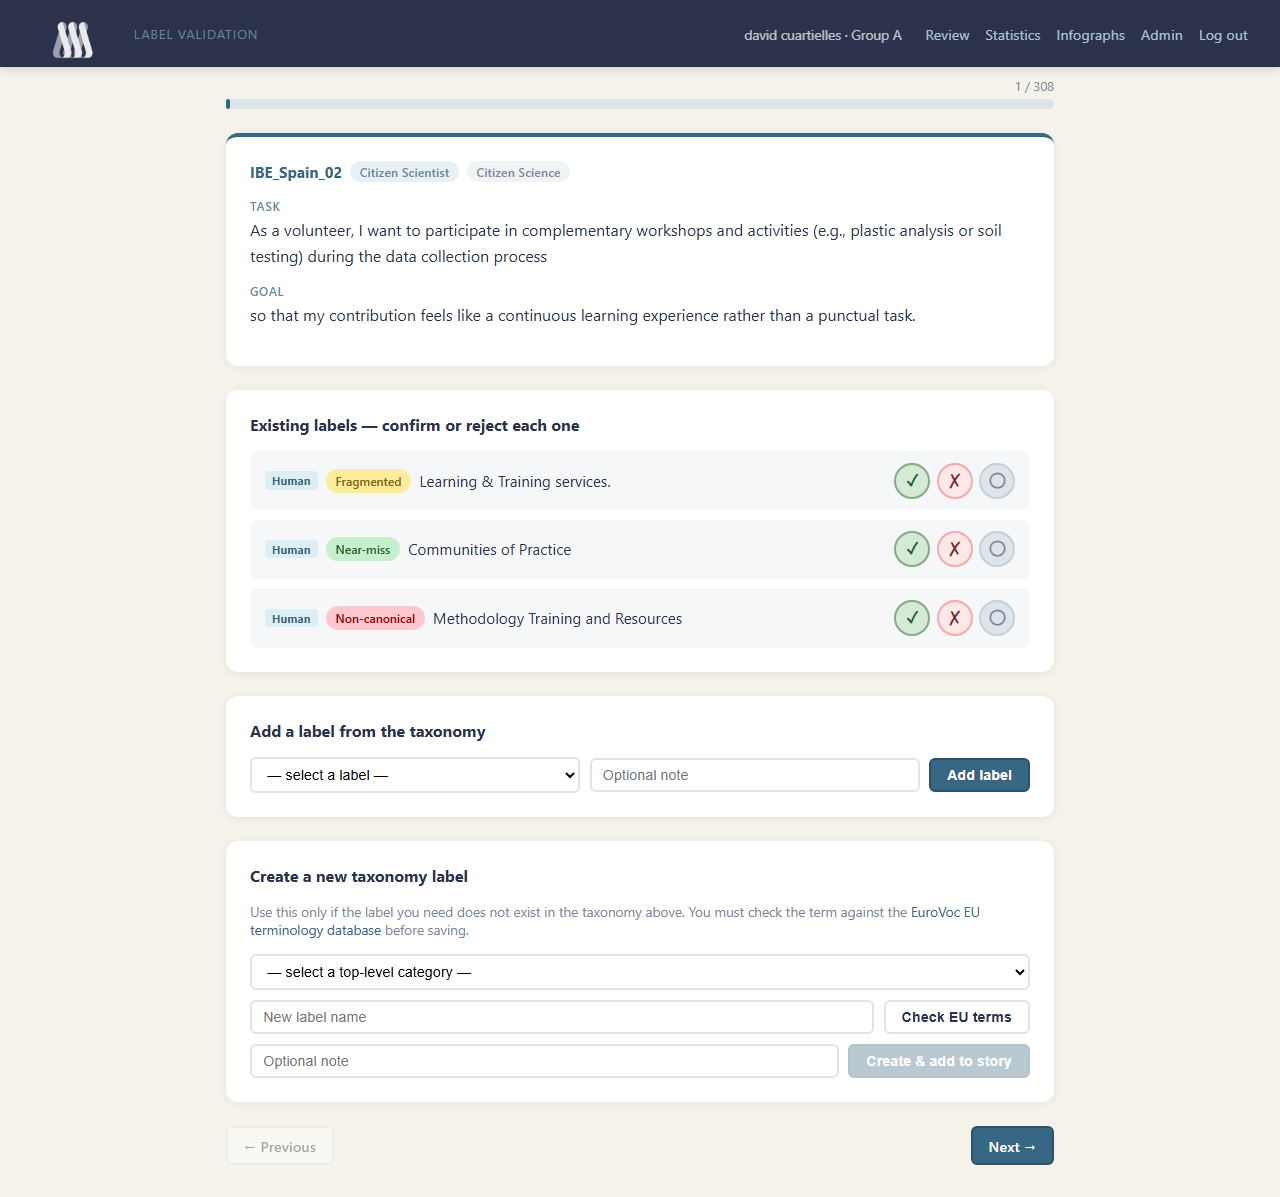
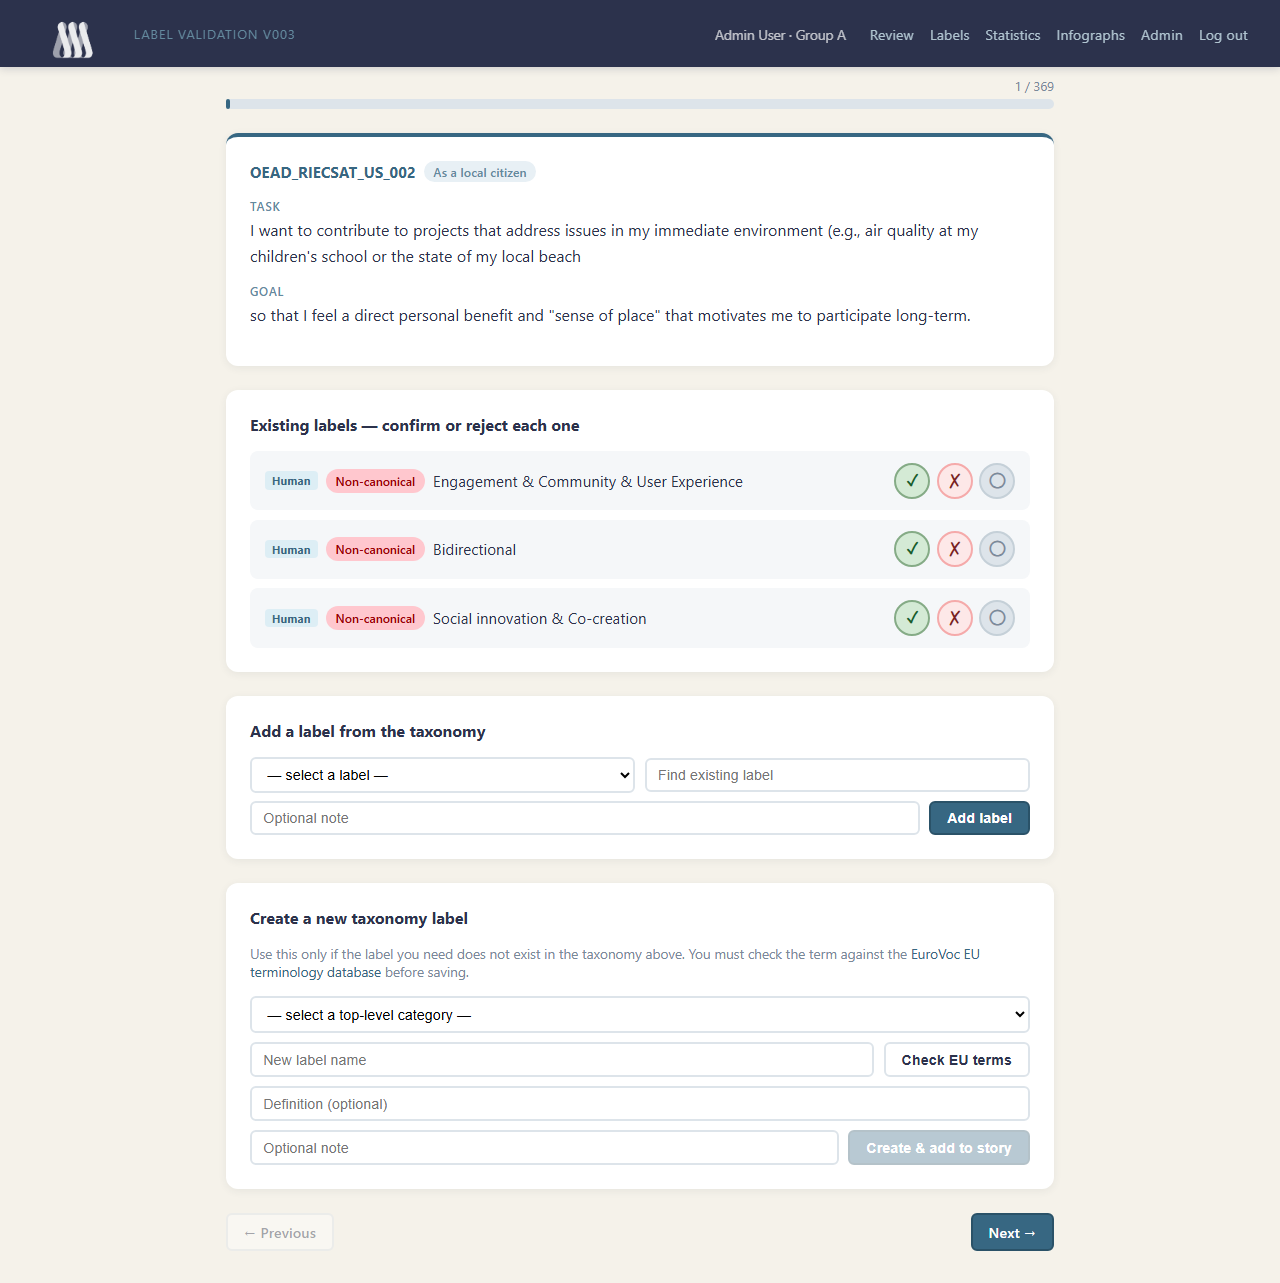
v004: update screenshots and README for Labels tab
- Add 07-labels.png screenshot
- Update screenshot script: add Labels page capture, replace names and emails with fictional equivalents, use fakemail.com domain
- Document Labels tab in README

diff --git a/scripts/take_screenshots.py b/scripts/take_screenshots.py
@@ -3,10 +3,11 @@ Automated screenshot capture for the README.
 Requires: pip install playwright && python -m playwright install chromium
 Run while the app is live on http://localhost:8000
 
-Emails visible on any page are replaced with fakeEmail.com addresses before
-the screenshot is taken (via JS text-node injection).
+Emails and real names visible on any page are replaced with fictional
+equivalents before the screenshot is taken (via JS text-node injection).
 """
 import asyncio
+import json
 import sys
 from datetime import datetime
 from pathlib import Path
@@ -22,43 +23,62 @@ from app.models import Session as ReviewSession, User
 OUT = Path("docs/screenshots")
 BASE = "http://localhost:8000"
 
+FAKE_NAMES = [
+    "Alice Müller",
+    "Bob Eriksson",
+    "Carol Dupont",
+    "David Rossi",
+    "Eva Kowalski",
+    "Frank Andersen",
+    "Grace Nakamura",
+    "Hugo Ferreira",
+]
 
-# JS that replaces every email address in the live DOM with a fake one.
-# The first email found becomes admin@fakeEmail.com; the rest become user1@…, user2@…
+# Replaces every occurrence of the real strings with their fake counterparts.
+# replacements = [[real, fake], ...]  — applied in order, longest-first.
 ANONYMISE_JS = """
-(adminEmail) => {
-    const re = /[a-zA-Z0-9._%+\\-]+@[a-zA-Z0-9.\\-]+\\.[a-zA-Z]{2,}/g;
-    const map = {};
-    let n = 1;
+(replacements) => {
+    replacements.sort((a, b) => b[0].length - a[0].length);
     const walk = document.createTreeWalker(document.body, NodeFilter.SHOW_TEXT);
     let node;
     while ((node = walk.nextNode())) {
-        if (!re.test(node.textContent)) { re.lastIndex = 0; continue; }
-        re.lastIndex = 0;
-        node.textContent = node.textContent.replace(re, m => {
-            if (!map[m]) {
-                map[m] = (m === adminEmail) ? 'admin@fakeEmail.com'
-                                            : `user${n++}@fakeEmail.com`;
-            }
-            return map[m];
-        });
+        let t = node.textContent;
+        for (const [real, fake] of replacements) {
+            if (t.includes(real)) t = t.split(real).join(fake);
+        }
+        node.textContent = t;
     }
 }
 """
 
 
-async def get_admin(db):
-    result = await db.execute(select(User).where(User.is_admin == True))
-    user = result.scalars().first()
-    if not user:
-        result = await db.execute(select(User))
-        user = result.scalars().first()
-    if not user:
+async def build_replacements(db) -> tuple[list[list[str]], int, str]:
+    """Return (replacements, admin_id, admin_email)."""
+    result = await db.execute(select(User).order_by(User.id))
+    users = result.scalars().all()
+
+    admin = next((u for u in users if u.is_admin), users[0] if users else None)
+    if not admin:
         raise RuntimeError("No users in DB. Log in at least once first.")
-    return user
+
+    replacements = []
+    fake_idx = 0
+    for u in users:
+        is_admin = u.id == admin.id
+        fake_name = "Admin User" if is_admin else FAKE_NAMES[fake_idx % len(FAKE_NAMES)]
+        if not is_admin:
+            fake_idx += 1
+        fake_email = "admin@fakemail.com" if is_admin else f"user{fake_idx}@fakemail.com"
+
+        if u.name:
+            replacements.append([u.name, fake_name])
+        if u.email:
+            replacements.append([u.email, fake_email])
+
+    return replacements, admin.id, admin.email
 
 
-async def ensure_active_session(db, admin_id: int) -> int:
+async def ensure_active_session(db, admin_id: int):
     result = await db.execute(
         select(ReviewSession).where(ReviewSession.ended_at.is_(None))
     )
@@ -68,7 +88,7 @@ async def ensure_active_session(db, admin_id: int) -> int:
         db.add(session)
         await db.commit()
         await db.refresh(session)
-        return session.id, True   # (id, created_by_us)
+        return session.id, True
     return session.id, False
 
 
@@ -84,18 +104,17 @@ async def main():
     await init_db()
 
     async with SessionLocal() as db:
-        admin = await get_admin(db)
-        admin_id = admin.id
-        admin_email = admin.email
+        replacements, admin_id, admin_email = await build_replacements(db)
         session_id, we_created = await ensure_active_session(db, admin_id)
 
-    print(f"Admin: {admin_email} -> admin@fakeEmail.com")
+    print(f"Admin: {admin_email} -> admin@fakemail.com")
     print(f"Session {session_id} ({'created' if we_created else 'reused'})")
+    repl_json = json.dumps(replacements)
 
     async with async_playwright() as p:
         browser = await p.chromium.launch()
 
-        # ── 1. Login page (unauthenticated context) ──────────────────────────
+        # ── 1. Login page (unauthenticated) ──────────────────────────────────
         ctx_anon = await browser.new_context(viewport={"width": 1280, "height": 800})
         page_anon = await ctx_anon.new_page()
         await page_anon.goto(f"{BASE}/login")
@@ -113,12 +132,15 @@ async def main():
             await browser.close()
             return
 
-        # ── 2. Waiting page (end session temporarily) ─────────────────────────
+        async def anon(pg):
+            await pg.evaluate(f"({ANONYMISE_JS})({repl_json})")
+
+        # ── 2. Waiting page ───────────────────────────────────────────────────
         async with SessionLocal() as db:
             await end_session(db, session_id)
         await page.goto(f"{BASE}/review")
         await page.wait_for_load_state("networkidle")
-        await page.evaluate(ANONYMISE_JS, admin_email)
+        await anon(page)
         await page.screenshot(path=str(OUT / "02-waiting.png"), full_page=True)
         print("  OK 02-waiting.png")
 
@@ -133,34 +155,40 @@ async def main():
         # ── 3. Review page ────────────────────────────────────────────────────
         await page.goto(f"{BASE}/review")
         await page.wait_for_load_state("networkidle")
-        await page.evaluate(ANONYMISE_JS, admin_email)
+        await anon(page)
         await page.screenshot(path=str(OUT / "03-review.png"), full_page=True)
         print("  OK 03-review.png")
 
         # ── 4. Statistics page ────────────────────────────────────────────────
         await page.goto(f"{BASE}/stats")
         await page.wait_for_load_state("networkidle")
-        await page.evaluate(ANONYMISE_JS, admin_email)
+        await anon(page)
         await page.screenshot(path=str(OUT / "04-stats.png"), full_page=True)
         print("  OK 04-stats.png")
 
         # ── 5. Infograph ──────────────────────────────────────────────────────
         await page.goto(f"{BASE}/infograph")
-        await page.wait_for_timeout(6000)   # wait for D3 simulation to settle
-        await page.evaluate(ANONYMISE_JS, admin_email)
+        await page.wait_for_timeout(6000)
+        await anon(page)
         await page.screenshot(path=str(OUT / "05-infograph.png"), full_page=True)
         print("  OK 05-infograph.png")
 
         # ── 6. Admin panel ────────────────────────────────────────────────────
         await page.goto(f"{BASE}/admin")
         await page.wait_for_load_state("networkidle")
-        await page.evaluate(ANONYMISE_JS, admin_email)
+        await anon(page)
         await page.screenshot(path=str(OUT / "06-admin.png"), full_page=True)
         print("  OK 06-admin.png")
 
+        # ── 7. Labels tab ─────────────────────────────────────────────────────
+        await page.goto(f"{BASE}/labels")
+        await page.wait_for_load_state("networkidle")
+        await anon(page)
+        await page.screenshot(path=str(OUT / "07-labels.png"), full_page=True)
+        print("  OK 07-labels.png")
+
         await browser.close()
 
-    # Clean up the session we created (leave it ended so DB is tidy)
     if we_created:
         async with SessionLocal() as db:
             await end_session(db, session_id)

diff --git a/README.md b/README.md
@@ -125,7 +125,25 @@ Two download buttons are available:
 
 ---
 
-### 5. Explore the label co-occurrence map
+### 5. Browse the labelbook
+
+The Labels page shows the complete taxonomy — both the pre-loaded labelbook and any labels proposed during sessions.
+
+![Labels page](docs/screenshots/07-labels.png)
+
+A search box at the top filters the table in real time as you type. User-created labels are sorted to the top and marked with a yellow **new** tag.
+
+Each row shows:
+
+| Column | Content |
+|---|---|
+| **Label** (25%) | Top-level category — bold italic, shown only on the first row of each group |
+| **Sublabel** (25%) | The specific label name |
+| **Description** (50%) | Definition from the labelbook or entered when creating the label |
+
+---
+
+### 6. Explore the label co-occurrence map
 
 The Infographs page shows a force-directed network of all labels in the dataset.
 
